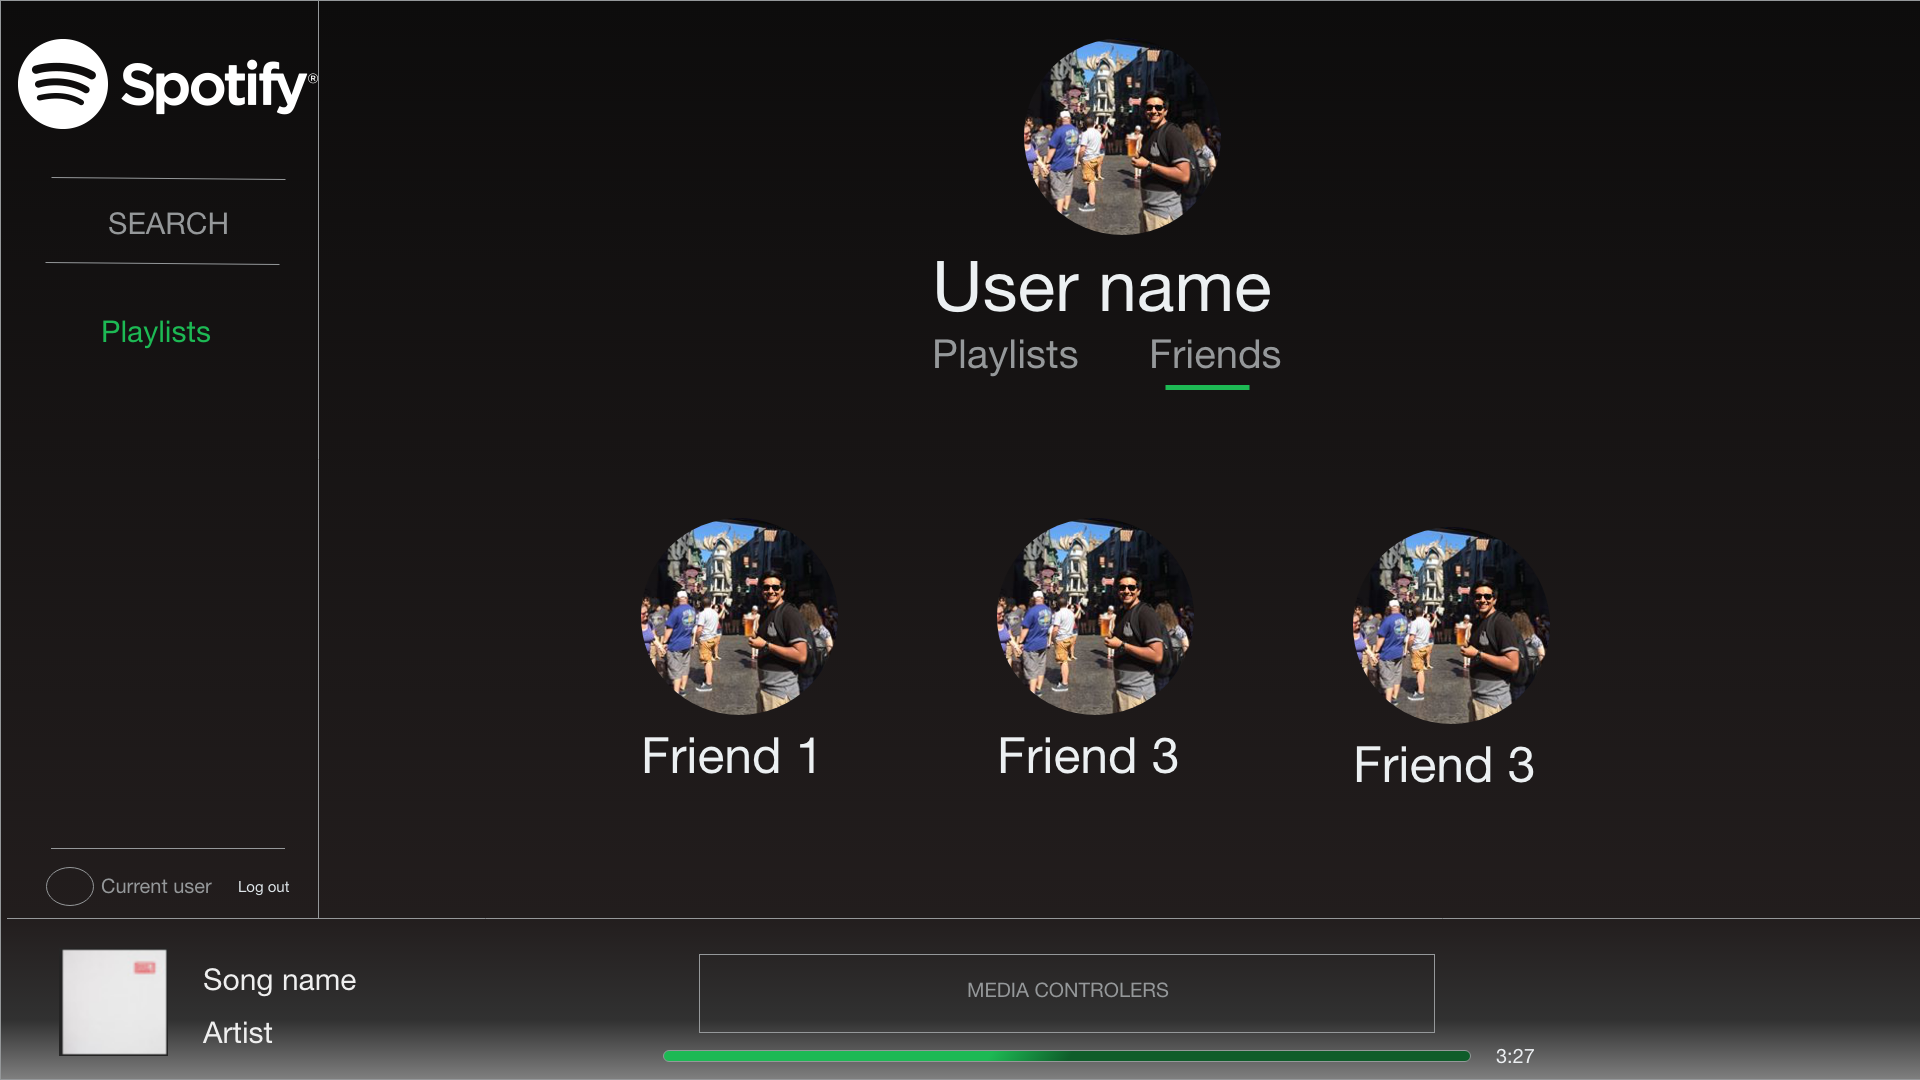
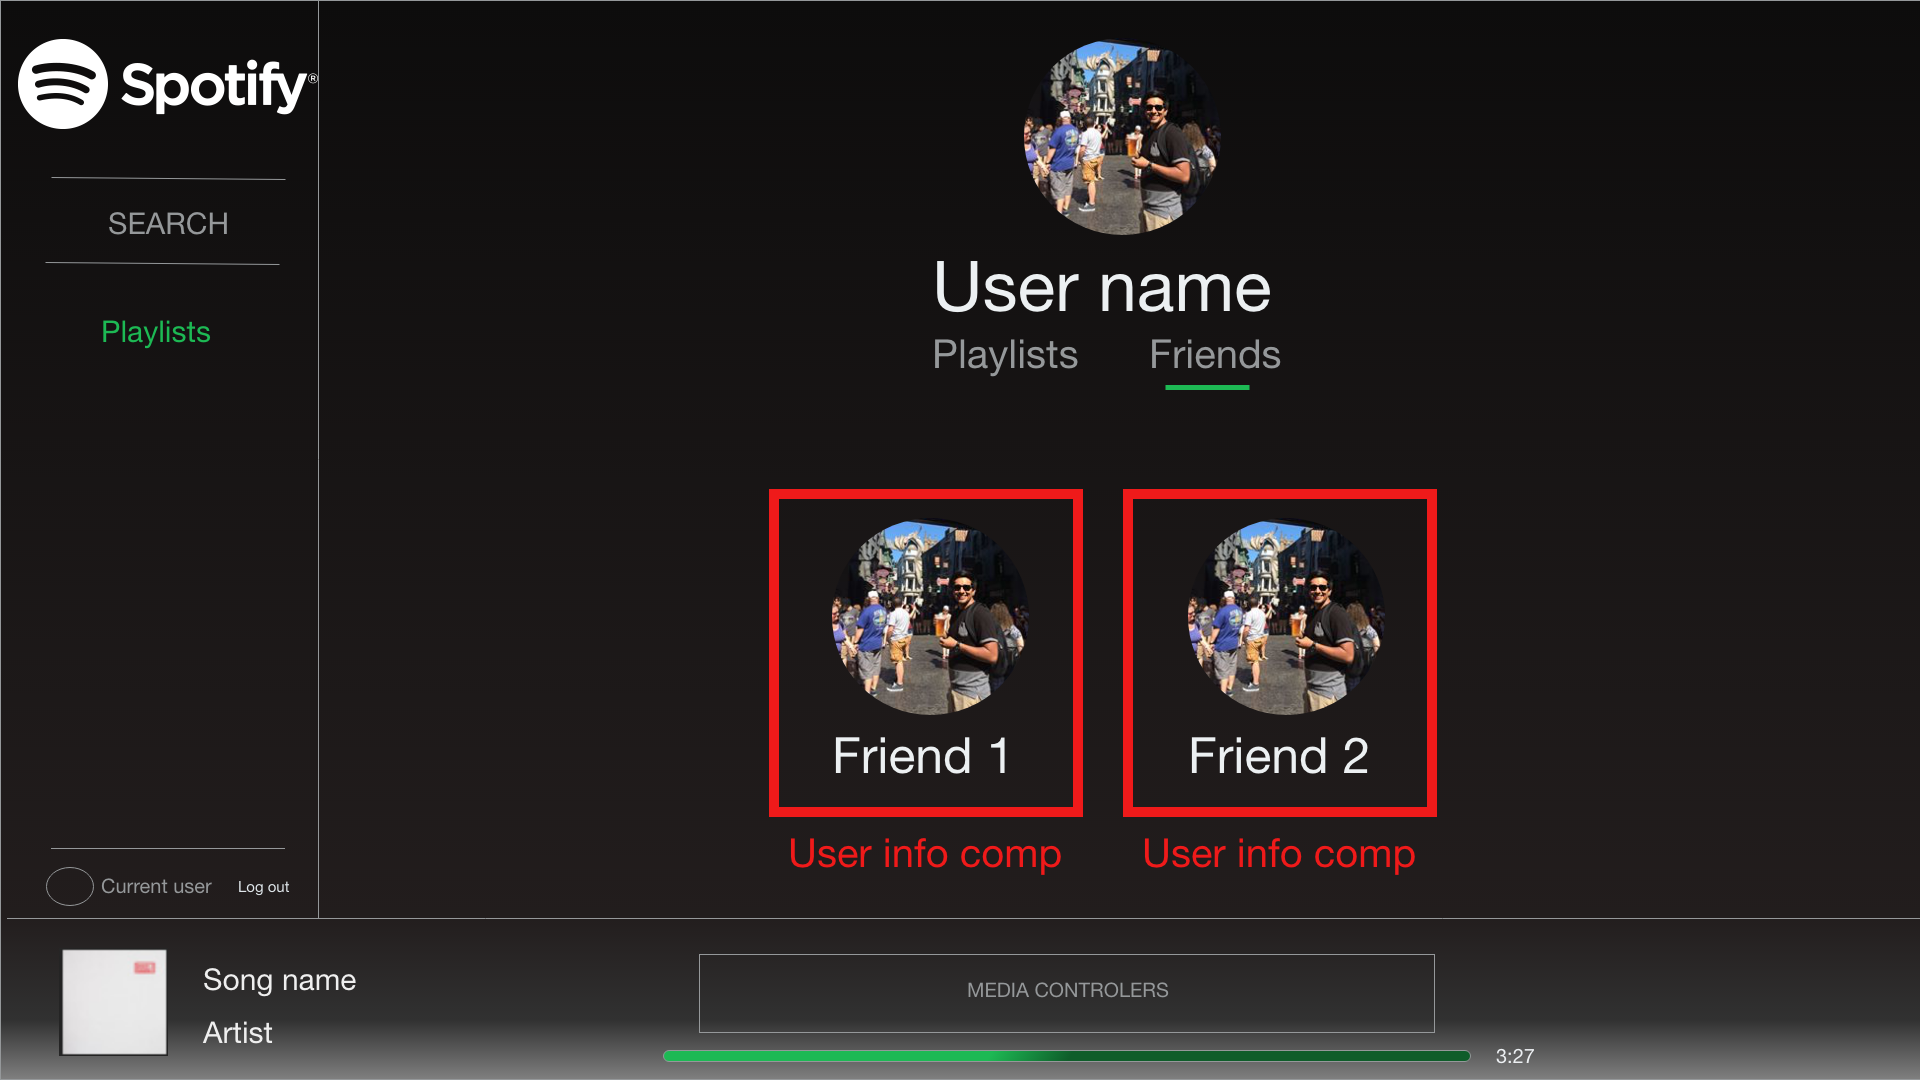
updated user's profile friends wireframe

Changed region(s): [[0.3125, 0.4278, 0.8125, 0.825]]

diff --git a/wiki/wireframes.md b/wiki/wireframes.md
@@ -65,7 +65,21 @@
 
 ![search-song](https://raw.githubusercontent.com/AAlfarho/macuilfy/master/wiki/wireframes/Search%20-%20Track.png)
 
+### Search Form and results for songs.
++ `/search/` - search for a specific user.
+
+![search-user](https://raw.githubusercontent.com/AAlfarho/macuilfy/master/wiki/wireframes/Search%20-%20user.png)
+
 ---
 
-### User Search
-![user-search](https://raw.githubusercontent.com/appacademy/bluebird/master/wiki/bluebird_user_search.png)
+## User Profile
+
+### Current user profile playlists section
++ `/users/:userId` - user profile by clicking on the current user link in the nav bar.
+
+![user-profile](https://raw.githubusercontent.com/AAlfarho/macuilfy/master/wiki/wireframes/User%20profile%20-%20playlists.png)
+
+### Current user profile friends section
++ `/users/:userId` - user profile by clicking on the current user link in the nav bar.
+
+![user-profile](https://raw.githubusercontent.com/AAlfarho/macuilfy/master/wiki/wireframes/User%20profile%20-%20friends.png)
